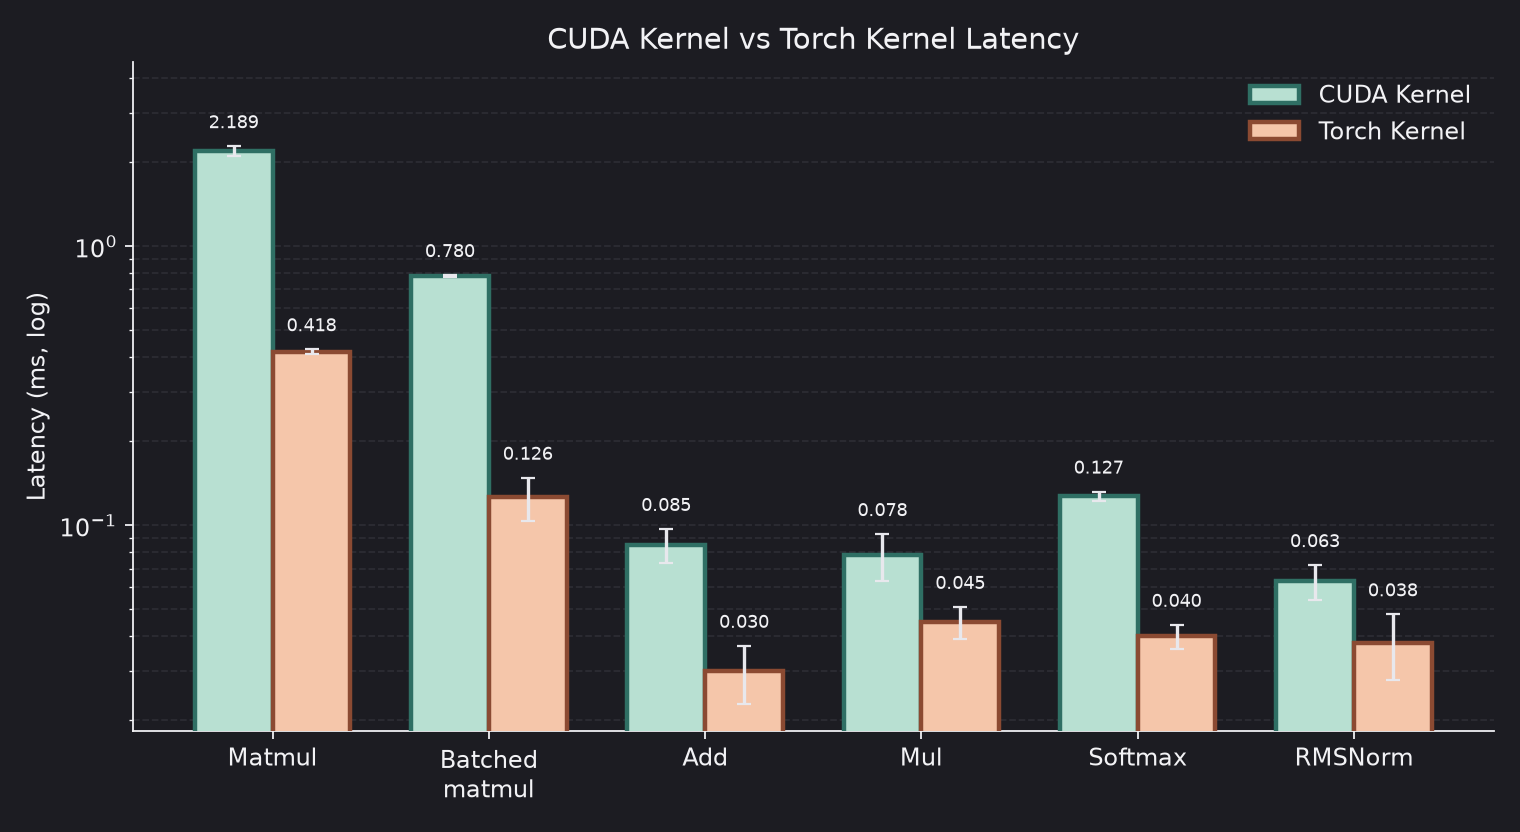
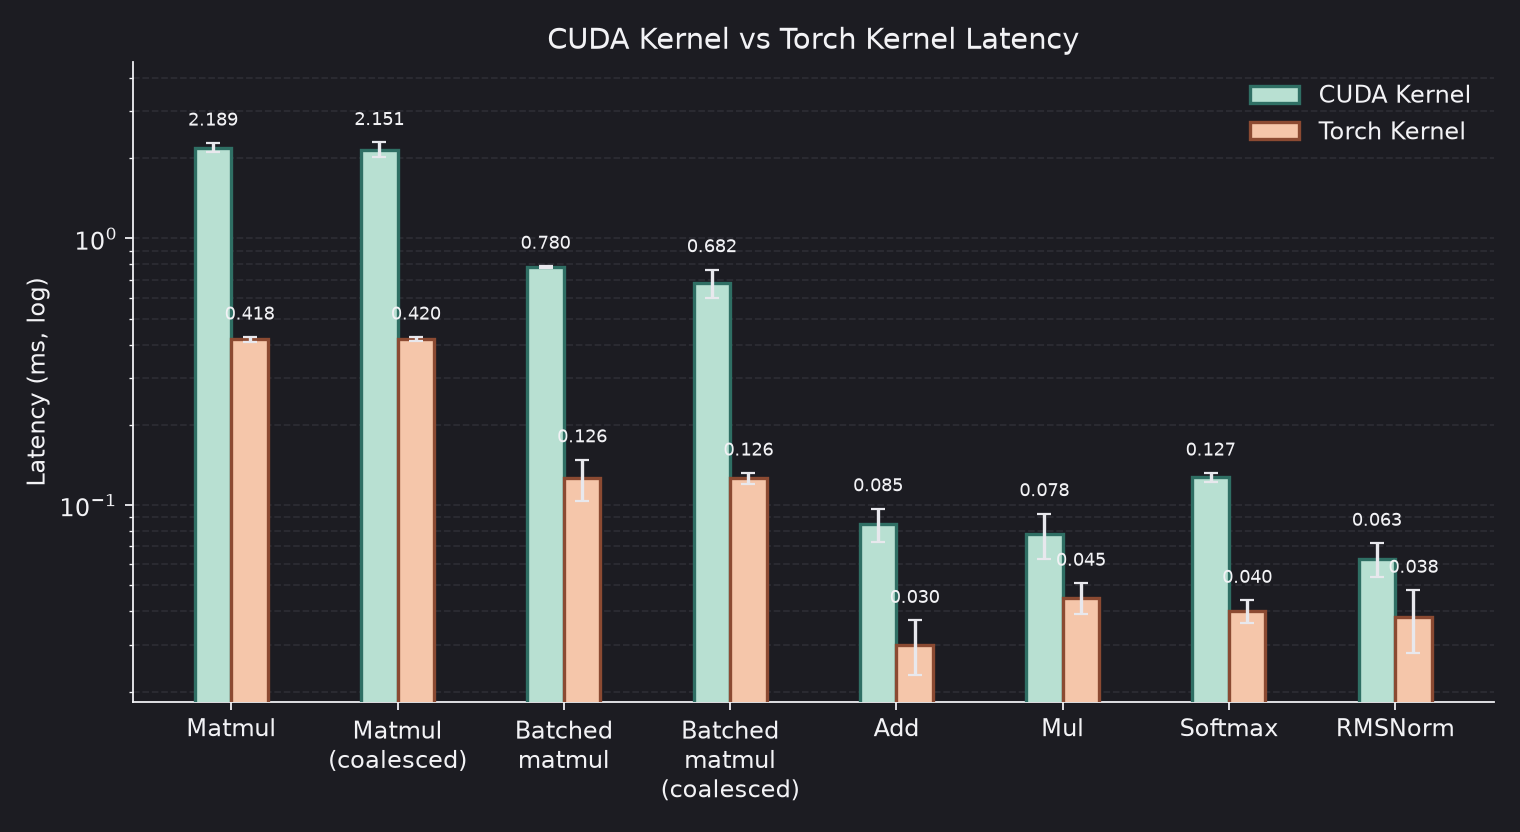
warp coalescing kernel added and profiled

diff --git a/profiling/plot_layer0.py b/profiling/plot_layer0.py
@@ -22,7 +22,9 @@ OUT_DIR = HERE / "figures"
 
 LABELS = {
     "matmul": "Matmul",
+    "matmul_coalesced": "Matmul\n(coalesced)",
     "batch_matmul": "Batched\nmatmul",
+    "batch_matmul_coalesced": "Batched\nmatmul\n(coalesced)",
     "addition": "Add",
     "multi": "Mul",
     "softmax": "Softmax",
@@ -37,7 +39,9 @@ CUDA_EDGE = "#2F6F64"
 TORCH_COLOR = "#F5C6AA"
 TORCH_EDGE = "#8B4A32"
 ERROR_COLOR = "#E8E8ED"
-BAR_EDGEWIDTH = 2.0
+BAR_EDGEWIDTH = 1.5
+GROUPED_BAR_WIDTH = 0.22
+SLOWDOWN_BAR_WIDTH = 0.4
 
 
 def load_rows():
@@ -78,7 +82,7 @@ def plot_latency(rows):
     torch_std = np.array([float(r["torch_std_ms"]) for r in rows])
 
     x = np.arange(len(names))
-    width = 0.36
+    width = GROUPED_BAR_WIDTH
 
     fig, ax = plt.subplots(figsize=(9.5, 5.2))
     ax.bar(
@@ -145,6 +149,7 @@ def plot_slowdown(rows):
     bars = ax.bar(
         x,
         slowdown,
+        width=SLOWDOWN_BAR_WIDTH,
         color=CUDA_COLOR,
         edgecolor=CUDA_EDGE,
         linewidth=BAR_EDGEWIDTH,
@@ -178,7 +183,7 @@ def plot_throughput(rows):
     bw = [r for r in rows if r["metric"] == "GB/s"]
 
     fig, axes = plt.subplots(1, 2, figsize=(11.5, 5.0))
-    width = 0.36
+    width = GROUPED_BAR_WIDTH
 
     def _grouped(ax, subset, ylabel, title):
         names = [LABELS[r["kernel"]] for r in subset]

diff --git a/profiling/results/profiling_layer_0.md b/profiling/results/profiling_layer_0.md
@@ -18,6 +18,18 @@ Torch:    15.42 TFLOPS
 
 ```
 
+- Matmul Profile (coalesced):
+
+```python
+kernel:   matmul  (1024, 1024) @ (1024, 3072)
+CUDA:     2.151 ± 0.138 ms
+Torch:    0.420 ± 0.007 ms
+slowdown: 5.1x
+CUDA:     3.00 TFLOPS
+Torch:    15.32 TFLOPS
+
+```
+
 - Batched Matmul Profile:
 
 ```bash
@@ -27,6 +39,18 @@ Torch:    0.126 ± 0.022 ms
 slowdown: 6.2x
 CUDA:     1.38 TFLOPS
 Torch:    8.49 TFLOPS
+
+```
+
+- Batched Matmul Profile (coalesced):
+
+```bash
+kernel:   batch_matmul  (64, 256, 128) @ (64, 128, 256)
+CUDA:     0.682 ± 0.082 ms
+Torch:    0.126 ± 0.006 ms
+slowdown: 5.4x
+CUDA:     1.57 TFLOPS
+Torch:    8.55 TFLOPS
 
 ```
 

diff --git a/docker/changes.md b/docker/changes.md
@@ -46,6 +46,8 @@ v0.0.3 - Softmax
 
 v0.0.4 - RMSNorm
 
+v0.0.5 - Warp Coalesing for the MatMul and Batched MatMul.
+
 ### Profiling Layer 1
 
 v0.0.1 - first draft of layer 1 of profiling pipeline.
